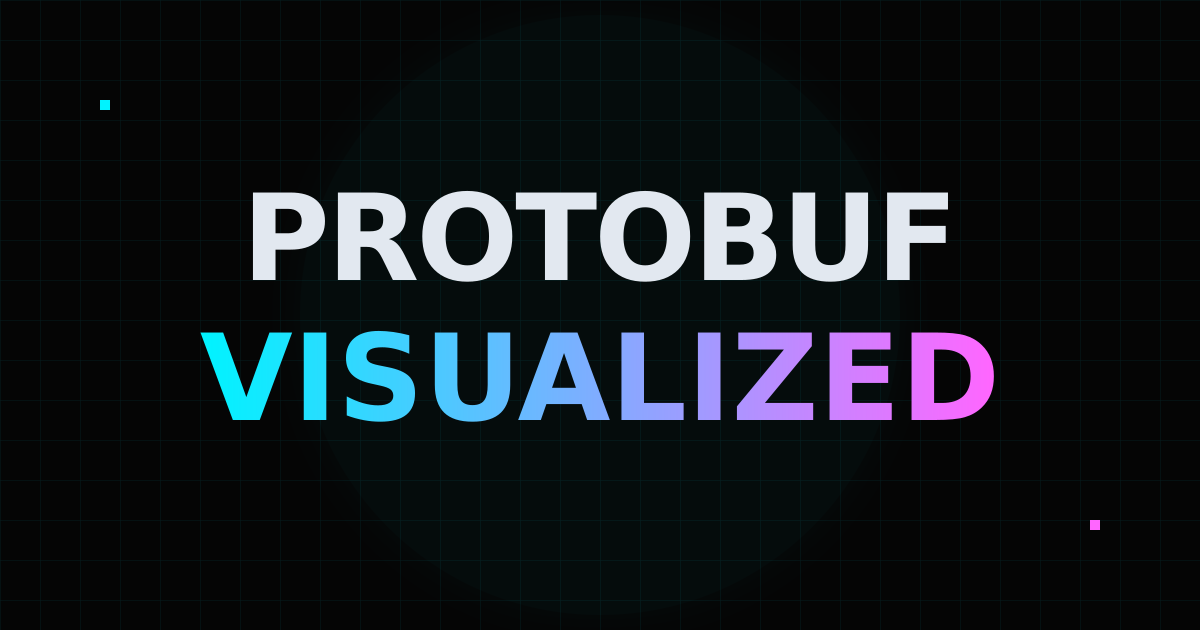
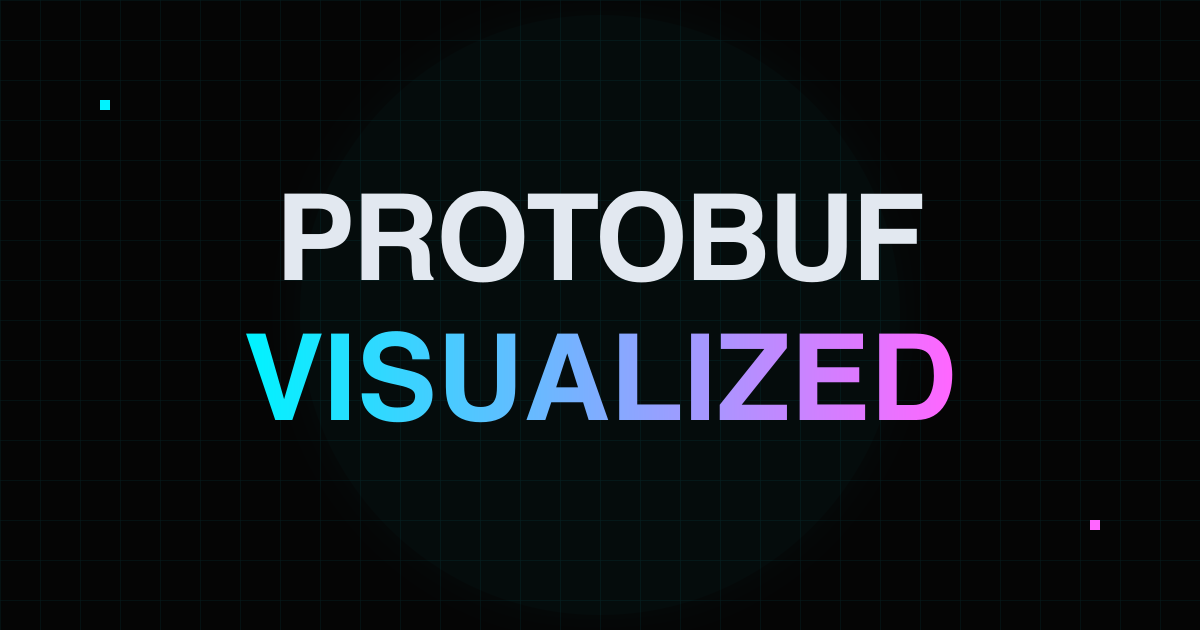
chore: fmt

Changed region(s): [[0.1542, 0.5127, 0.8325, 0.6937], [0.185, 0.3016, 0.8017, 0.4524]]

diff --git a/web/src/pages/Binary.tsx b/web/src/pages/Binary.tsx
@@ -342,8 +342,8 @@ const TagCalculator = () => {
                 </strong>{" "}
                 Field 16 shifted by 3 is 128. This number is too large to fit in
                 the 7-bit capacity of a single Varint byte! This forces the tag
-                value to split across two bytes, demonstrating why field numbers 1-15
-                are best for small, frequently used fields.
+                value to split across two bytes, demonstrating why field numbers
+                1-15 are best for small, frequently used fields.
               </p>
             </div>
           )}
@@ -539,13 +539,15 @@ const BinaryBasics = () => (
           memory. Systems generally use either <strong>Big-Endian</strong> (most
           significant byte first) or <strong>Little-Endian</strong> (least
           significant byte first).
-          <strong>Protobuf uses a Little-Endian approach for most integer types.</strong>
+          <strong>
+            Protobuf uses a Little-Endian approach for most integer types.
+          </strong>
         </p>
         <p className="text-sm text-[var(--text-dim)] leading-relaxed max-w-2xl mx-auto">
           In Little-Endian systems, the "least significant byte" (the one with
-          the smallest numerical weight) is stored first in the sequence.
-          When we look at Protobuf's raw binary streams, this explains why smaller pieces
-          of a number often appear before larger pieces.
+          the smallest numerical weight) is stored first in the sequence. When
+          we look at Protobuf's raw binary streams, this explains why smaller
+          pieces of a number often appear before larger pieces.
         </p>
       </div>
       <div className="max-w-4xl mx-auto">
@@ -578,12 +580,12 @@ const BinaryBasics = () => (
           to "make room" for other data.
         </p>
         <p className="text-sm text-[var(--text-dim)] leading-relaxed max-w-2xl mx-auto">
-          A left shift (<code>&lt;&lt;</code>) moves every bit in a number to the left.
-          The empty spaces on the right become zeroes.
-          Think of it like adding a zero to the end of a base-10 number (which multiplies it by 10).
-          In binary, shifting left by 1 multiplies the number by 2.
-          Shifting left by 3 multiplies it by 8 (2<sup>3</sup>), and creates exactly 3 empty bits
-          on the right side.
+          A left shift (<code>&lt;&lt;</code>) moves every bit in a number to
+          the left. The empty spaces on the right become zeroes. Think of it
+          like adding a zero to the end of a base-10 number (which multiplies it
+          by 10). In binary, shifting left by 1 multiplies the number by 2.
+          Shifting left by 3 multiplies it by 8 (2<sup>3</sup>), and creates
+          exactly 3 empty bits on the right side.
         </p>
       </div>
       <div className="max-w-3xl mx-auto space-y-6">
@@ -599,10 +601,10 @@ const BinaryBasics = () => (
           />
         </div>
         <p className="text-sm text-[var(--text-dim)] leading-relaxed text-center max-w-2xl mx-auto">
-          Bit shifting is a foundational operation for data serialization.
-          By shifting bits to the left, we can "make room" on the right side.
-          Protobuf uses this exact technique: it shifts the field number to the left by 3,
-          creating 3 empty bits to store the wire type.
+          Bit shifting is a foundational operation for data serialization. By
+          shifting bits to the left, we can "make room" on the right side.
+          Protobuf uses this exact technique: it shifts the field number to the
+          left by 3, creating 3 empty bits to store the wire type.
         </p>
       </div>
     </div>
@@ -619,8 +621,8 @@ const BinaryBasics = () => (
           <code>1</code>, the output bit is <code>1</code>.
         </p>
         <p className="text-sm text-[var(--text-dim)] leading-relaxed max-w-2xl mx-auto">
-          Once we've shifted bits to make room (like creating 3 empty zeros),
-          we can use the OR operation to "glue" another value into that space.
+          Once we've shifted bits to make room (like creating 3 empty zeros), we
+          can use the OR operation to "glue" another value into that space.
         </p>
       </div>
       <div className="max-w-3xl mx-auto space-y-6">
@@ -636,9 +638,9 @@ const BinaryBasics = () => (
           />
         </div>
         <p className="text-sm text-[var(--text-dim)] leading-relaxed text-center max-w-2xl mx-auto">
-          The bitwise OR operation allows us to safely combine separate
-          values into a single number. As long as the individual values are shifted
-          to occupy non-overlapping bit ranges (like a puzzle fitting together),
+          The bitwise OR operation allows us to safely combine separate values
+          into a single number. As long as the individual values are shifted to
+          occupy non-overlapping bit ranges (like a puzzle fitting together),
           they can be merged without corrupting one another.
         </p>
       </div>

diff --git a/web/src/pages/Advanced.tsx b/web/src/pages/Advanced.tsx
@@ -1982,10 +1982,11 @@ const FieldPresence = () => (
               Field presence determines whether a receiver can distinguish
               between a field that was <strong>never set</strong> and one that
               was set to its <strong>default value</strong> (like <code>0</code>{" "}
-              or <code>""</code>).
-              In short, <strong>implicit presence</strong> saves space by
-              never sending default values, while <strong>explicit presence</strong>
-              includes extra tracking to definitively tell you if a field was populated.
+              or <code>""</code>). In short, <strong>implicit presence</strong>{" "}
+              saves space by never sending default values, while{" "}
+              <strong>explicit presence</strong>
+              includes extra tracking to definitively tell you if a field was
+              populated.
             </p>
           </div>
 

diff --git a/web/src/pages/Efficiency.tsx b/web/src/pages/Efficiency.tsx
@@ -615,7 +615,7 @@ export const SizeComparison = ({
                   Protobuf performance is highly dependent on the language and
                   library implementation. In languages with native binary
                   support like <strong>C++, Go, and Java</strong>, Protobuf can
-                be decoded <strong>5x-10x faster</strong> than JSON.
+                  be decoded <strong>5x-10x faster</strong> than JSON.
                 </p>
                 <p className="text-sm text-[var(--text-dim)] leading-relaxed">
                   In interpreted languages like{" "}
@@ -635,8 +635,8 @@ export const SizeComparison = ({
                   If your payload is 90% long strings (like blog posts),
                   Protobuf will only save you a few percentage points of space.
                   However, if your data is <strong>numeric-heavy</strong> (IDs,
-                timestamps, coordinates, or metrics), Protobuf significantly
-                outperforms JSON in both size and speed.
+                  timestamps, coordinates, or metrics), Protobuf significantly
+                  outperforms JSON in both size and speed.
                 </p>
                 <p className="text-sm text-[var(--text-dim)] leading-relaxed italic border-l-2 border-[var(--cyber-neon-green)]/80 pl-4">
                   "The win isn't just bytes on the wire; it's the CPU cycles